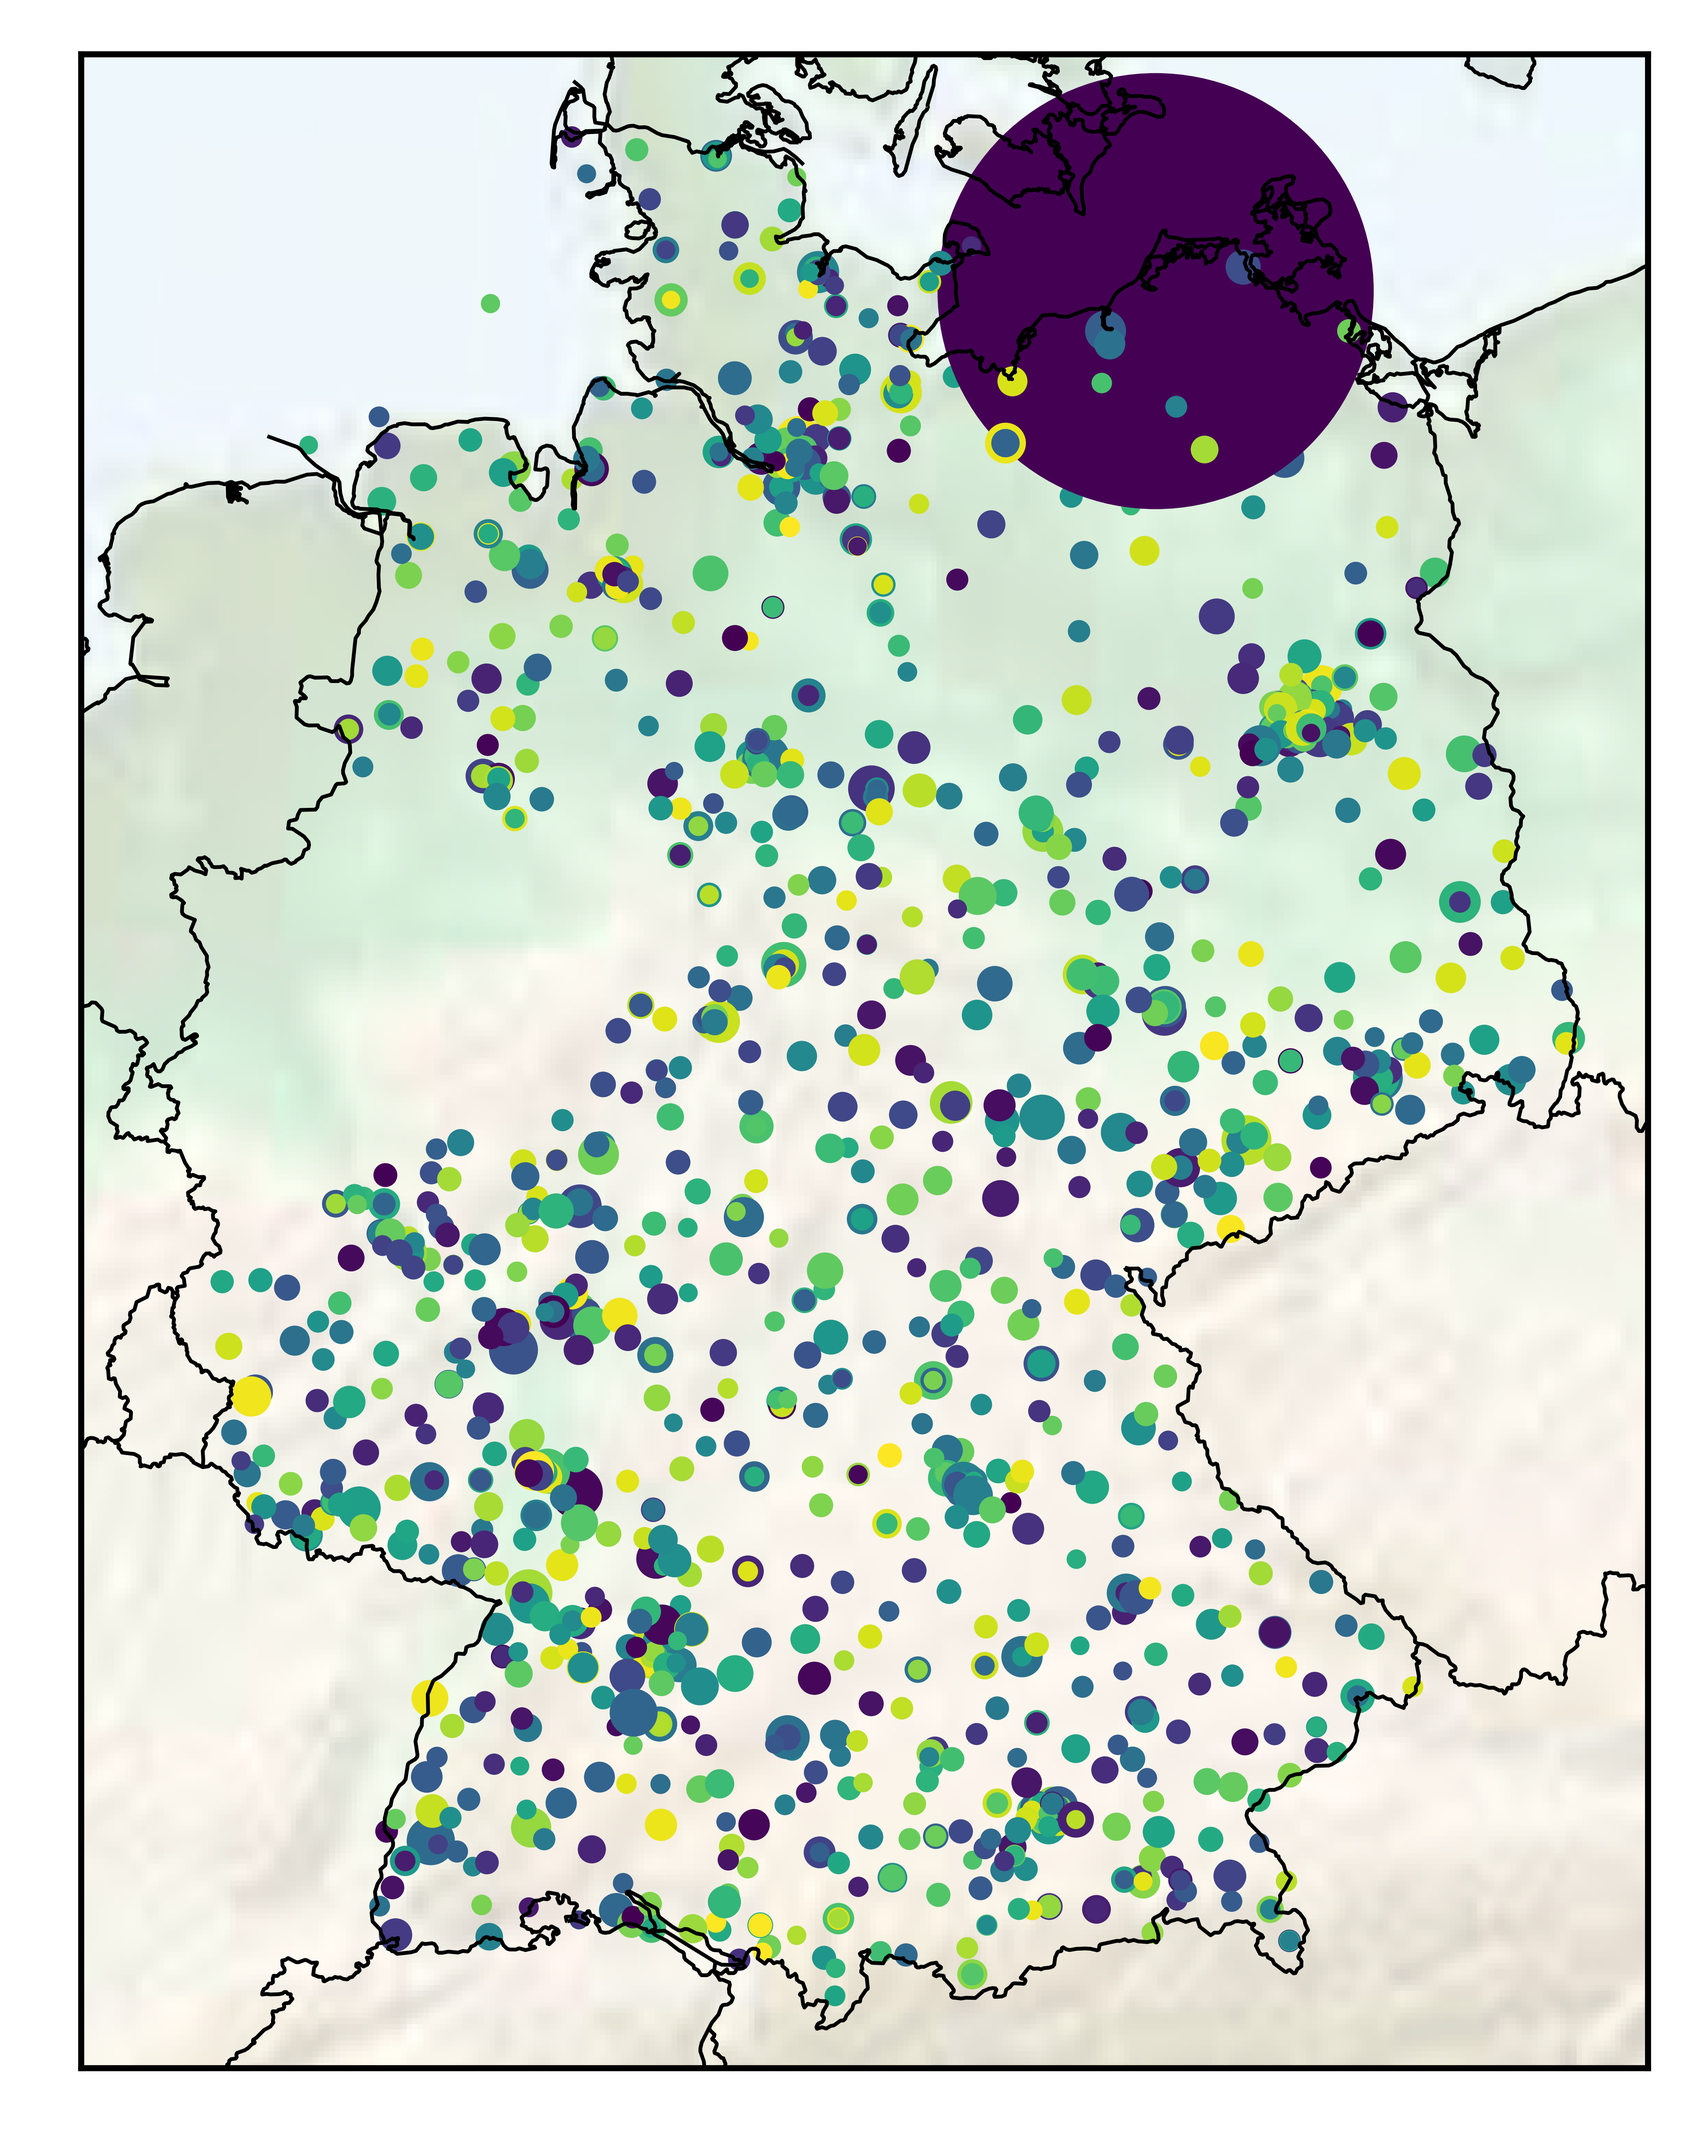
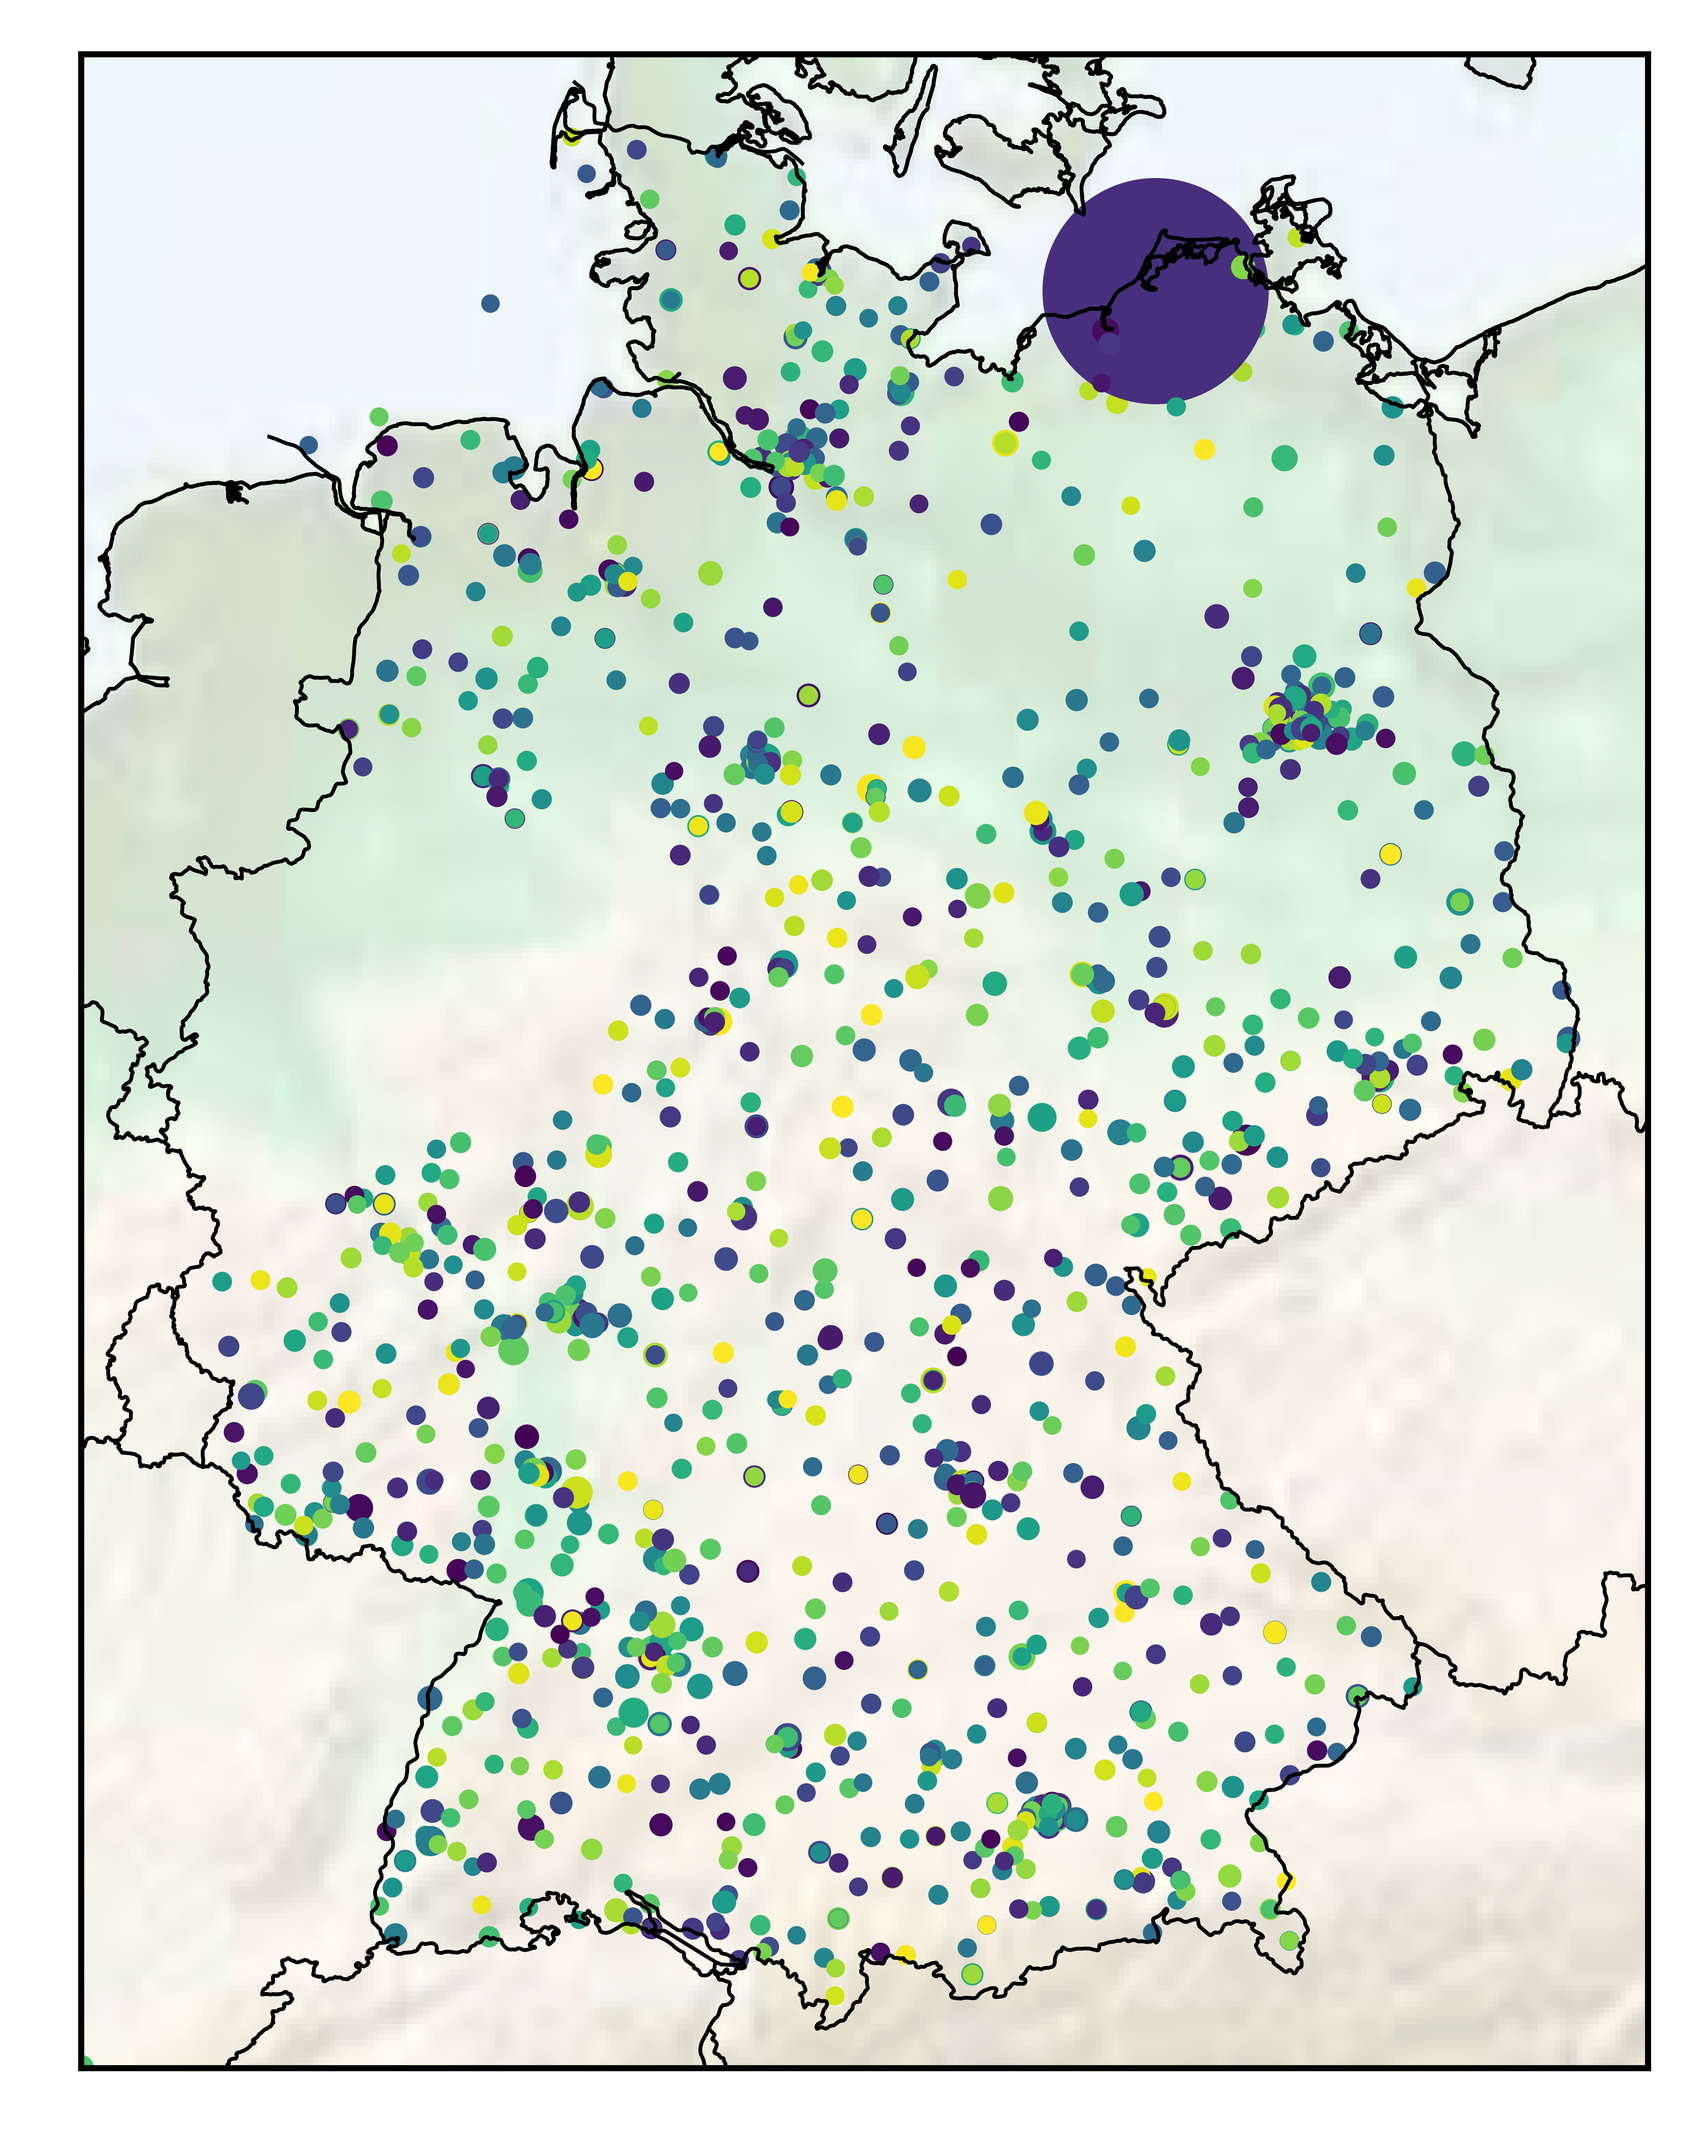
refactored map creaton script

Changed region(s): [[0.1247, 0.0311, 0.9351, 0.9331]]

diff --git a/plot_hospitals_on_map.py b/plot_hospitals_on_map.py
@@ -2,80 +2,63 @@ import pandas as pd
 import numpy as np
 import random
 import matplotlib.pyplot as plt
-from matplotlib import colors as mcolors
 from mpl_toolkits.basemap import Basemap
 from termcolor import cprint
 
+MARKERSIZE_MAX = 15
 MARKERSIZE_MIN = 2
-MARKERSIZE_RANGE = 50
+DEBUG = False # use lower resolution, and open picture instead of saving it
 
-
-xvals = []
-yvals = []
-beds = []
-scores = []
-
-def add_datapoint(row):
-    score = random.random() # placeholder
-    zipcode = str(row['PLZ'])
+def get_x_and_y_from_zip(zip):
+    try:
+        row = zip_locations.loc[zip_locations['postal_code'] == zip].iloc[0]
+    except IndexError:
+        cprint(f"PLZ nicht gefunden: {zip}", "red")
+        return -1, -1
     
-    if '/' in zipcode:
-        zipcode = zipcode.split('/')[0]
-
-    zips = zip_locations.loc[zip_locations['postal_code'] == zipcode]
-
-    if zips.empty:
-        cprint(f"Couldn't locate {row[1]} (zip code: {zipcode})", 'red')
-        return
-
-    if len(zips) > 1:
-        cprint(f"Found {len(zips)} locations for zip code {zipcode} (hospital {row[1]} in {row[0]})", 'yellow')
-
-    # use the first row of all found zip code locations:
-    x, y = m(zips.iloc[0]['longitude'], zips.iloc[0]['latitude'])
-    bed_count_factor = (row['Betten'] - betten_min) / (betten_max - betten_min)
-
-    print(f"Plotting {row[1]} in {zipcode} {zips.iloc[0]['city']} ({row['Betten']} Betten, {bed_count_factor:.2f})...")
-    xvals.append(x)
-    yvals.append(y)
-    beds.append(MARKERSIZE_MIN+MARKERSIZE_RANGE*bed_count_factor)
-    scores.append(score)
-
+    return m(row['longitude'], row['latitude'])
 
 zip_locations = pd.read_pickle('output_data/zipcode_data.pkl')
 hospitals = pd.read_excel('source_data/Krankenhauslistevers2wind.xlsx')
 
 betten_max = 3000 # hospitals['Betten'].max() angeblich 192154 :D
-betten_min = hospitals['Betten'].min() # 1
 
-# hospitals = hospitals.sample(n=50, random_state=1)
+hospitals = hospitals.dropna(subset=['PLZ'])
+hospitals['PLZ'] = hospitals['PLZ'].astype('string') # convert from obj to str
+hospitals['PLZ'] = hospitals['PLZ'].apply(lambda s: s.split('/')[0].strip()) # if value is list of zip codes, take the first one and drop rest
+
+# assign each hospital a random score:
+hospitals['score'] = np.random.uniform(size=len(hospitals))
 
 m = Basemap(
     projection='cass', 
-    resolution='h',
-    area_thresh = 150, # keine Gewässer unter 150km^2
+    resolution='c' if DEBUG else 'f',
+    area_thresh = 150, # keine Gewässer unter 150km^2 einzeichnen
     width=7e5,
     height=9e5,
-    lat_0=51.1642292, 
+    lat_0=51.1642292, # center lat/lon of map
     lon_0=10.4541194
 )
 
-m.etopo(scale=3, alpha=.2)
+m.etopo(scale=.1 if DEBUG else 3, alpha=.2)
 
 m.drawcoastlines(linewidth=.5)
 m.drawcountries()
 #m.drawlsmask()
+# plt.set_cmap('viridis')
 
-hospitals.apply(add_datapoint, axis = 1)
+# add x and y vals to dataframe:
+hospitals['x'], hospitals['y'] = zip(*hospitals['PLZ'].map(get_x_and_y_from_zip))
 
-plt.set_cmap('viridis')
 plt.scatter(
-    x=xvals, 
-    y=yvals, 
-    s=beds,
-    c=scores,
+    x=hospitals['x'], 
+    y=hospitals['y'], 
+    s=MARKERSIZE_MIN + (hospitals['Betten'] / betten_max * (MARKERSIZE_MAX-MARKERSIZE_MIN)),
+    c=hospitals['score'],
     alpha=1
 )
 
-plt.savefig('output_data/map.png', dpi=1500, bbox_inches='tight')
-# plt.show()
+if DEBUG:
+    plt.show()
+else:
+    plt.savefig('output_data/map.png', dpi=1500, bbox_inches='tight')
